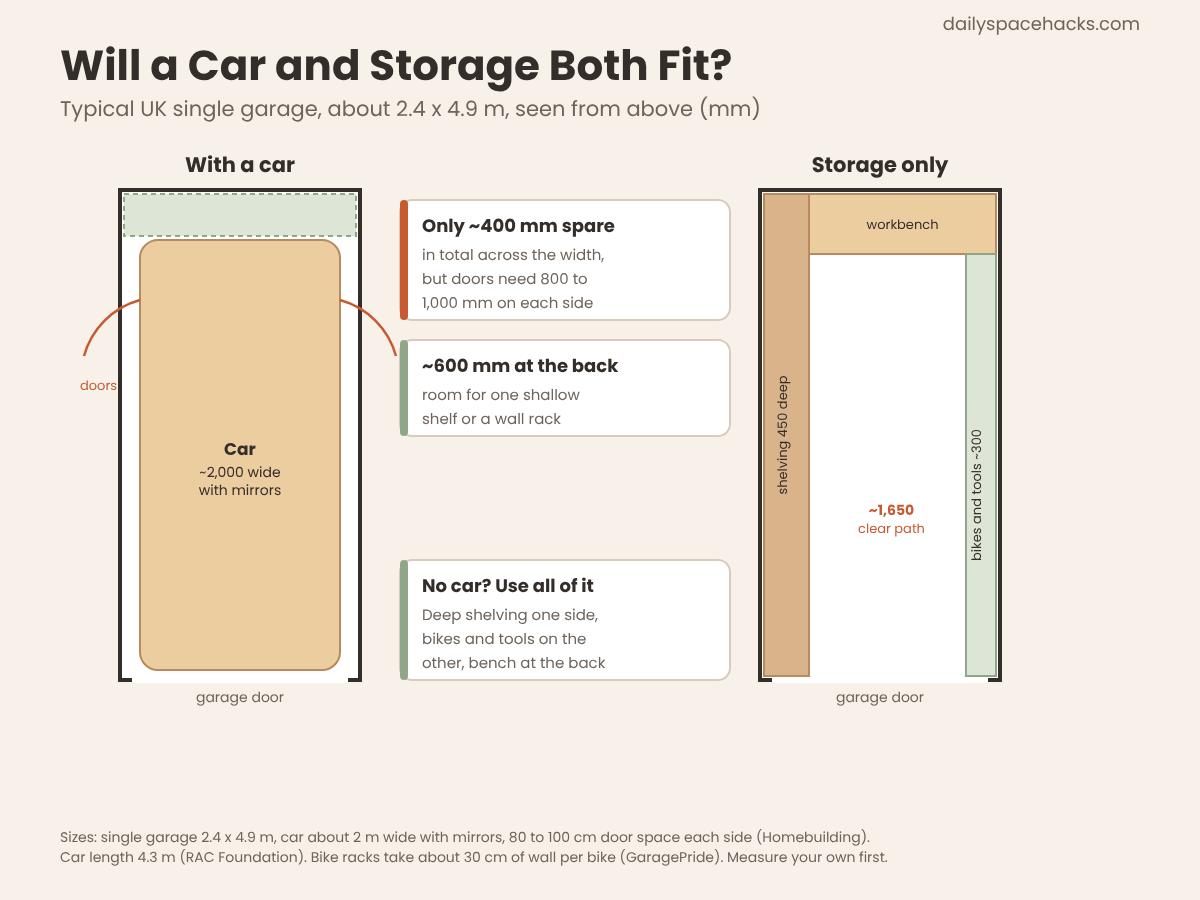
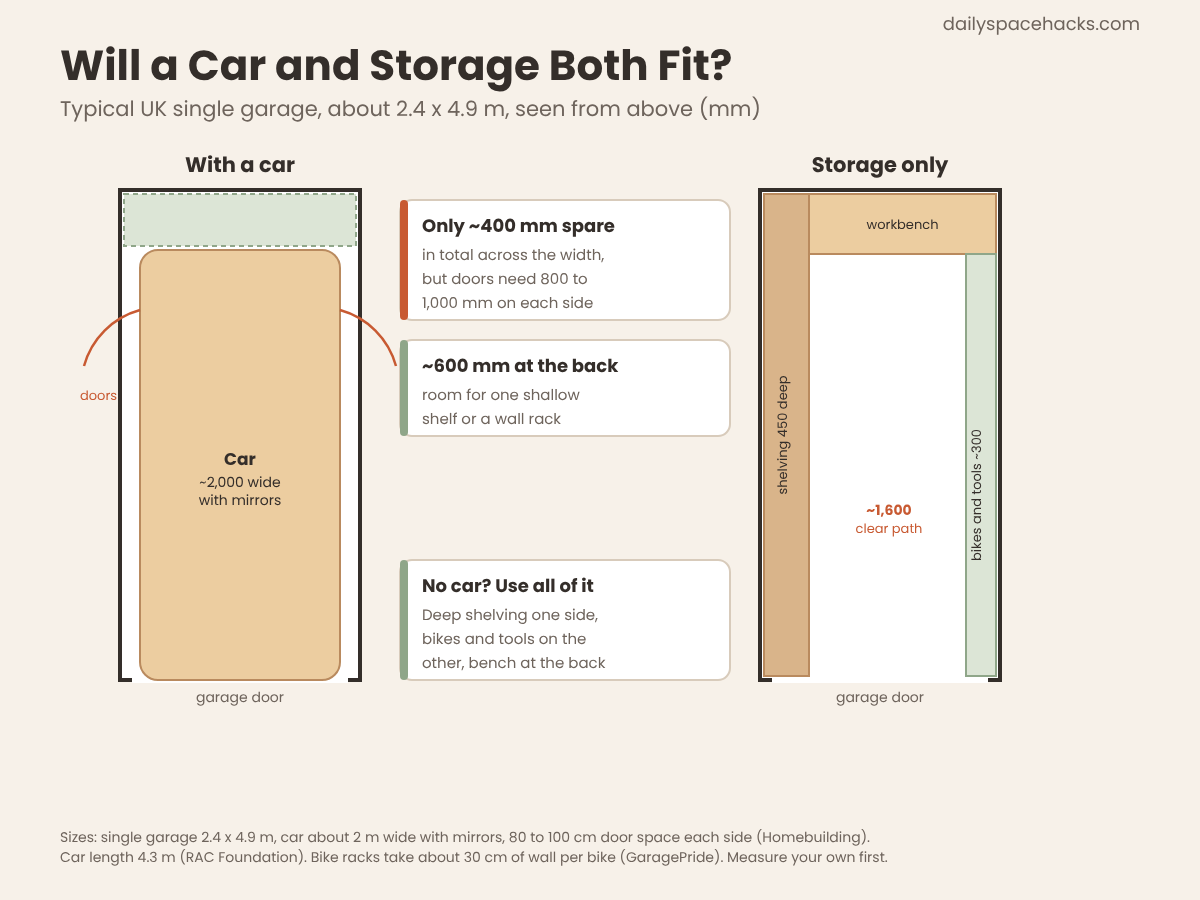
Schedule 3307 garage storage ideas (UK, F2) Nov 12; CSV-66
Claude-Session: https://claude.ai/code/session_015bHY4eNJzsj1XRjde6uJvz

diff --git a/tools/garage-uk/content.html b/tools/garage-uk/content.html
@@ -1,5 +1,5 @@
 <!-- wp:paragraph -->
-<p>The best garage storage ideas get everything off the floor and onto the walls: sturdy shelving with lidded boxes down one side, bikes and garden tools hung on the other, and a pegboard above a bench at the back. Do that and even a cluttered single garage can hold the family's kit with a clear path down the middle.</p>
+<p>The best garage storage ideas get everything off the floor and onto the walls: sturdy shelving with lidded boxes down one side, bikes and garden tools hung on the other, and a pegboard above a bench at the back. Do that and even a cluttered single garage can usually hold the family's kit with a clear path down the middle.</p>
 <!-- /wp:paragraph -->
 
 <!-- wp:paragraph -->
@@ -15,7 +15,7 @@
 <!-- /wp:heading -->
 
 <!-- wp:html -->
-<figure class="dsh-diagram"><svg xmlns="http://www.w3.org/2000/svg" viewBox="0 0 1200 900" font-family="Poppins, sans-serif" role="img" aria-labelledby="gg-t gg-d"><title id="gg-t">How much room a UK single garage really has</title><desc id="gg-d">Top-down plan of a typical UK single garage, about 2.4 m wide by 4.9 m long, with a family car about 2 m wide including mirrors and 4.3 m long parked inside. That leaves only about 400 mm of width in total, far less than the 800 to 1000 mm needed on each side to open the doors, so a car and side shelving rarely fit together in an older single garage. The car also leaves about 600 mm of length, enough for a shallow shelf or wall rack across the back wall. With no car, the whole garage can be used: deep shelving down one side, a workbench at the back and bikes and tools on the other wall, keeping a clear path down the middle.</desc><rect width="1200" height="900" fill="#F7F1E9"/><text x="60" y="80" font-size="42" font-weight="700" fill="#342E2A">Will a Car and Storage Both Fit?</text><text x="60" y="116" font-size="21" fill="#6E645C">Typical UK single garage, about 2.4 x 4.9 m, seen from above (mm)</text><text x="1140" y="30" font-size="18" fill="#6E645C" text-anchor="end">dailyspacehacks.com</text><text x="240.0" y="172" font-size="21" font-weight="700" fill="#342E2A" text-anchor="middle">With a car</text><rect x="120" y="190" width="240.0" height="490.0" fill="#FFFFFF" stroke="#342E2A" stroke-width="4"/><line x1="132" y1="680.0" x2="348.0" y2="680.0" stroke="#FFFFFF" stroke-width="6"/><text x="240.0" y="702.0" font-size="14" fill="#6E645C" text-anchor="middle">garage door</text><rect x="140.0" y="240.0" width="200.0" height="430.0" rx="18" fill="#ECCDA0" stroke="#B98A5E" stroke-width="2"/><text x="240.0" y="455.0" font-size="17" font-weight="700" fill="#342E2A" text-anchor="middle">Car</text><text x="240.0" y="477.0" font-size="14" fill="#342E2A" text-anchor="middle">~2,000 wide</text><text x="240.0" y="495.0" font-size="14" fill="#342E2A" text-anchor="middle">with mirrors</text><rect x="124" y="194" width="232.0" height="42.0" fill="#DCE5D6" stroke="#8FA689" stroke-width="2" stroke-dasharray="5 4"/><text x="80.0" y="390.0" font-size="13" fill="#C85A32">doors</text><path d="M140.0 300.0 A80.0 80.0 0 0 0 84.0 356.0" fill="none" stroke="#C85A32" stroke-width="2.5"/><path d="M340.0 300.0 A80.0 80.0 0 0 1 396.0 356.0" fill="none" stroke="#C85A32" stroke-width="2.5"/><rect x="400.0" y="200" width="330" height="120" rx="12" fill="#FFFFFF" stroke="#D8CBBB" stroke-width="2"/><rect x="400.0" y="200" width="8" height="120" rx="4" fill="#C85A32"/><text x="422.0" y="232" font-size="18" font-weight="700" fill="#342E2A">Only ~400 mm spare</text><text x="422.0" y="260" font-size="15" fill="#6E645C">in total across the width,</text><text x="422.0" y="284" font-size="15" fill="#6E645C">but doors need 800 to</text><text x="422.0" y="308" font-size="15" fill="#6E645C">1,000 mm on each side</text><rect x="400.0" y="340" width="330" height="96" rx="12" fill="#FFFFFF" stroke="#D8CBBB" stroke-width="2"/><rect x="400.0" y="340" width="8" height="96" rx="4" fill="#8FA689"/><text x="422.0" y="372" font-size="18" font-weight="700" fill="#342E2A">~600 mm at the back</text><text x="422.0" y="400" font-size="15" fill="#6E645C">room for one shallow</text><text x="422.0" y="424" font-size="15" fill="#6E645C">shelf or a wall rack</text><text x="880.0" y="172" font-size="21" font-weight="700" fill="#342E2A" text-anchor="middle">Storage only</text><rect x="760" y="190" width="240.0" height="490.0" fill="#FFFFFF" stroke="#342E2A" stroke-width="4"/><line x1="772" y1="680.0" x2="988.0" y2="680.0" stroke="#FFFFFF" stroke-width="6"/><text x="880.0" y="702.0" font-size="14" fill="#6E645C" text-anchor="middle">garage door</text><rect x="764" y="194" width="45.0" height="482.0" fill="#D9B48A" stroke="#B98A5E" stroke-width="2"/><text x="786.5" y="435.0" font-size="13" fill="#342E2A" text-anchor="middle" transform="rotate(-90 786.5 435.0)">shelving 450 deep</text><rect x="809.0" y="194" width="187.0" height="60.0" fill="#ECCDA0" stroke="#B98A5E" stroke-width="2"/><text x="902.5" y="229.0" font-size="13" fill="#342E2A" text-anchor="middle">workbench</text><rect x="966.0" y="254.0" width="30.0" height="422.0" fill="#DCE5D6" stroke="#8FA689" stroke-width="2"/><text x="981.0" y="495.0" font-size="13" fill="#342E2A" text-anchor="middle" transform="rotate(-90 981.0 495.0)">bikes and tools ~300</text><text x="891.5" y="515.0" font-size="14" font-weight="700" fill="#C85A32" text-anchor="middle">~1,650</text><text x="891.5" y="533.0" font-size="13" fill="#C85A32" text-anchor="middle">clear path</text><rect x="400" y="560" width="330" height="120" rx="12" fill="#FFFFFF" stroke="#D8CBBB" stroke-width="2"/><rect x="400" y="560" width="8" height="120" rx="4" fill="#8FA689"/><text x="422" y="592" font-size="18" font-weight="700" fill="#342E2A">No car? Use all of it</text><text x="422" y="620" font-size="15" fill="#6E645C">Deep shelving one side,</text><text x="422" y="644" font-size="15" fill="#6E645C">bikes and tools on the</text><text x="422" y="668" font-size="15" fill="#6E645C">other, bench at the back</text><text x="60" y="842" font-size="14" fill="#6E645C">Sizes: single garage 2.4 x 4.9 m, car about 2 m wide with mirrors, 80 to 100 cm door space each side (Homebuilding).</text><text x="60" y="862" font-size="14" fill="#6E645C">Car length 4.3 m (RAC Foundation). Bike racks take about 30 cm of wall per bike (GaragePride). Measure your own first.</text></svg><figcaption>In a typical 2.4 x 4.9 m single garage, a 2 m wide car leaves room only for a shallow rack at the back. Without a car, the whole garage can be used for storage.</figcaption></figure>
+<figure class="dsh-diagram"><svg xmlns="http://www.w3.org/2000/svg" viewBox="0 0 1200 900" font-family="Poppins, sans-serif" role="img" aria-labelledby="gg-t gg-d"><title id="gg-t">How much room a UK single garage really has</title><desc id="gg-d">Top-down plan of a typical UK single garage, about 2.4 m wide by 4.9 m long, with a family car about 2 m wide including mirrors and 4.3 m long parked inside. That leaves only about 400 mm of width in total, far less than the 800 to 1000 mm needed on each side to open the doors, so a car and side shelving rarely fit together in a typical single garage. The car also leaves about 600 mm of length, enough for a shallow shelf or wall rack across the back wall. With no car, the whole garage can be used: deep shelving down one side, a workbench at the back and bikes and tools on the other wall, keeping a clear path down the middle.</desc><rect width="1200" height="900" fill="#F7F1E9"/><text x="60" y="80" font-size="42" font-weight="700" fill="#342E2A">Will a Car and Storage Both Fit?</text><text x="60" y="116" font-size="21" fill="#6E645C">Typical UK single garage, about 2.4 x 4.9 m, seen from above (mm)</text><text x="1140" y="30" font-size="18" fill="#6E645C" text-anchor="end">dailyspacehacks.com</text><text x="240.0" y="172" font-size="21" font-weight="700" fill="#342E2A" text-anchor="middle">With a car</text><rect x="120" y="190" width="240.0" height="490.0" fill="#FFFFFF" stroke="#342E2A" stroke-width="4"/><line x1="132" y1="680.0" x2="348.0" y2="680.0" stroke="#FFFFFF" stroke-width="6"/><text x="240.0" y="702.0" font-size="14" fill="#6E645C" text-anchor="middle">garage door</text><rect x="140.0" y="250.0" width="200.0" height="430.0" rx="18" fill="#ECCDA0" stroke="#B98A5E" stroke-width="2"/><text x="240.0" y="465.0" font-size="17" font-weight="700" fill="#342E2A" text-anchor="middle">Car</text><text x="240.0" y="487.0" font-size="14" fill="#342E2A" text-anchor="middle">~2,000 wide</text><text x="240.0" y="505.0" font-size="14" fill="#342E2A" text-anchor="middle">with mirrors</text><rect x="124" y="194" width="232.0" height="52.0" fill="#DCE5D6" stroke="#8FA689" stroke-width="2" stroke-dasharray="5 4"/><text x="80.0" y="400.0" font-size="13" fill="#C85A32">doors</text><path d="M140.0 310.0 A80.0 80.0 0 0 0 84.0 366.0" fill="none" stroke="#C85A32" stroke-width="2.5"/><path d="M340.0 310.0 A80.0 80.0 0 0 1 396.0 366.0" fill="none" stroke="#C85A32" stroke-width="2.5"/><rect x="400.0" y="200" width="330" height="120" rx="12" fill="#FFFFFF" stroke="#D8CBBB" stroke-width="2"/><rect x="400.0" y="200" width="8" height="120" rx="4" fill="#C85A32"/><text x="422.0" y="232" font-size="18" font-weight="700" fill="#342E2A">Only ~400 mm spare</text><text x="422.0" y="260" font-size="15" fill="#6E645C">in total across the width,</text><text x="422.0" y="284" font-size="15" fill="#6E645C">but doors need 800 to</text><text x="422.0" y="308" font-size="15" fill="#6E645C">1,000 mm on each side</text><rect x="400.0" y="340" width="330" height="96" rx="12" fill="#FFFFFF" stroke="#D8CBBB" stroke-width="2"/><rect x="400.0" y="340" width="8" height="96" rx="4" fill="#8FA689"/><text x="422.0" y="372" font-size="18" font-weight="700" fill="#342E2A">~600 mm at the back</text><text x="422.0" y="400" font-size="15" fill="#6E645C">room for one shallow</text><text x="422.0" y="424" font-size="15" fill="#6E645C">shelf or a wall rack</text><text x="880.0" y="172" font-size="21" font-weight="700" fill="#342E2A" text-anchor="middle">Storage only</text><rect x="760" y="190" width="240.0" height="490.0" fill="#FFFFFF" stroke="#342E2A" stroke-width="4"/><line x1="772" y1="680.0" x2="988.0" y2="680.0" stroke="#FFFFFF" stroke-width="6"/><text x="880.0" y="702.0" font-size="14" fill="#6E645C" text-anchor="middle">garage door</text><rect x="764" y="194" width="45.0" height="482.0" fill="#D9B48A" stroke="#B98A5E" stroke-width="2"/><text x="786.5" y="435.0" font-size="13" fill="#342E2A" text-anchor="middle" transform="rotate(-90 786.5 435.0)">shelving 450 deep</text><rect x="809.0" y="194" width="187.0" height="60.0" fill="#ECCDA0" stroke="#B98A5E" stroke-width="2"/><text x="902.5" y="229.0" font-size="13" fill="#342E2A" text-anchor="middle">workbench</text><rect x="966.0" y="254.0" width="30.0" height="422.0" fill="#DCE5D6" stroke="#8FA689" stroke-width="2"/><text x="981.0" y="495.0" font-size="13" fill="#342E2A" text-anchor="middle" transform="rotate(-90 981.0 495.0)">bikes and tools ~300</text><text x="889.0" y="515.0" font-size="14" font-weight="700" fill="#C85A32" text-anchor="middle">~1,600</text><text x="889.0" y="533.0" font-size="13" fill="#C85A32" text-anchor="middle">clear path</text><rect x="400" y="560" width="330" height="120" rx="12" fill="#FFFFFF" stroke="#D8CBBB" stroke-width="2"/><rect x="400" y="560" width="8" height="120" rx="4" fill="#8FA689"/><text x="422" y="592" font-size="18" font-weight="700" fill="#342E2A">No car? Use all of it</text><text x="422" y="620" font-size="15" fill="#6E645C">Deep shelving one side,</text><text x="422" y="644" font-size="15" fill="#6E645C">bikes and tools on the</text><text x="422" y="668" font-size="15" fill="#6E645C">other, bench at the back</text><text x="60" y="842" font-size="14" fill="#6E645C">Sizes: single garage 2.4 x 4.9 m, car about 2 m wide with mirrors, 80 to 100 cm door space each side (Homebuilding).</text><text x="60" y="862" font-size="14" fill="#6E645C">Car length 4.3 m (RAC Foundation). Bike racks take about 30 cm of wall per bike (GaragePride). Measure your own first.</text></svg><figcaption>In a typical 2.4 x 4.9 m single garage, a 2 m wide car leaves room only for a shallow rack at the back. Without a car, the whole garage can be used for storage.</figcaption></figure>
 <!-- /wp:html -->
 
 <!-- wp:paragraph -->
@@ -35,7 +35,7 @@
 <!-- /wp:image -->
 
 <!-- wp:paragraph -->
-<p>Freestanding shelving is the backbone of most garage storage. Check the load per shelf, not just the price. At the time of writing, Screwfix lists a five-tier plastic unit at £49.99 rated at <a href="https://www.screwfix.com/p/essentials-5-tier-plastic-garage-shelving-unit-1200mm-x-400mm-x-1850mm/740VM" target="_blank" rel="noopener">60 kg per shelf</a>, and a galvanised steel five-tier unit at £102.49 rated at 450 kg per shelf, which Screwfix says <a href="https://www.screwfix.com/p/rb-boss-fastlok-udl-galv-5-tier-metal-garage-shelving-unit-1200mm-x-450mm-x-1800mm/773tw" target="_blank" rel="noopener">must be securely attached to the wall</a>. IKEA's BROR unit costs £80 and IKEA says it <a href="https://www.ikea.com/gb/en/p/bror-shelving-unit-black-s39272655/" target="_blank" rel="noopener">must be securely anchored</a>. Fix every tall unit to the wall, and keep the heaviest things on the lowest shelves.</p>
+<p>Freestanding shelving does most of the work in a garage. Check the load per shelf, not just the price. At the time of writing, Screwfix lists a five-tier plastic unit at £49.99 rated at <a href="https://www.screwfix.com/p/essentials-5-tier-plastic-garage-shelving-unit-1200mm-x-400mm-x-1850mm/740VM" target="_blank" rel="noopener">60 kg per shelf</a>, and a galvanised steel five-tier unit at £85.99 rated at 450 kg per shelf, which Screwfix says <a href="https://www.screwfix.com/p/rb-boss-fastlok-udl-galv-5-tier-metal-garage-shelving-unit-1200mm-x-450mm-x-1800mm/773tw" target="_blank" rel="noopener">must be securely attached to the wall</a>. IKEA's BROR unit (85 x 55 x 110 cm) was £80 on offer at the time of writing, down from £95, and IKEA says it <a href="https://www.ikea.com/gb/en/p/bror-shelving-unit-black-s39272655/" target="_blank" rel="noopener">must be securely anchored</a>. Fix every tall unit to the wall, and keep the heaviest things on the lowest shelves.</p>
 <!-- /wp:paragraph -->
 
 <!-- wp:heading {"level":3} -->
@@ -55,7 +55,7 @@
 <!-- /wp:image -->
 
 <!-- wp:paragraph -->
-<p>Bikes take up floor space for most of the year. Hanging them by the front wheel on wall hooks means each one needs only about <a href="https://www.garagepride.co.uk/blog/post/garage-bike-rack" target="_blank" rel="noopener">30cm of wall width per bike</a>, according to GaragePride. Heavy e-bikes need a rack rated for their weight. For security, Avon and Somerset Police advise you to <a href="https://www.avonandsomerset.police.uk/crime-prevention-advice/home-protection/garage-or-shed-security/" target="_blank" rel="noopener">use a ground anchor</a> so bikes cannot be easily removed. See our <a href="https://dailyspacehacks.com/storage-ideas-for-small-spaces/">storage ideas for small spaces</a> for more wall-mounted solutions.</p>
+<p>Bikes take up floor space for most of the year. Hanging them by the front wheel on wall hooks means each one needs only about <a href="https://www.garagepride.co.uk/blog/post/garage-bike-rack" target="_blank" rel="noopener">30cm of wall width per bike</a>, according to GaragePride. E-bikes often weigh 20 to 30 kg, so GaragePride suggests a rack rated to at least 40 kg per bike, fixed into solid wall or timber studs. For security, Avon and Somerset Police advise you to <a href="https://www.avonandsomerset.police.uk/crime-prevention-advice/home-protection/garage-or-shed-security/" target="_blank" rel="noopener">use a ground anchor</a> so bikes cannot be easily removed. See our <a href="https://dailyspacehacks.com/storage-ideas-for-small-spaces/">storage ideas for small spaces</a> for more wall-mounted solutions.</p>
 <!-- /wp:paragraph -->
 
 <!-- wp:heading {"level":3} -->
@@ -83,7 +83,7 @@
 <!-- /wp:image -->
 
 <!-- wp:paragraph -->
-<p>A pegboard turns the wall above a bench into tool storage you can see at a glance. Hang each tool on its own hook and draw round it with a marker if you want everyone to put things back in the same place. Small jars or tubs on a narrow shelf hold screws and wall plugs. If you only have room for a narrow bench, a fold-down one saves floor space; our <a href="https://dailyspacehacks.com/diy-floating-shelves/">floating shelves guide</a> explains how to fix shelves securely to masonry.</p>
+<p>A pegboard turns the wall above a bench into tool storage you can see at a glance. Hang each tool on its own hook and draw round it with a marker if you want everyone to put things back in the same place. Small jars or tubs on a narrow shelf hold screws and wall plugs. If you only have room for a narrow bench, a fold-down one saves floor space; our <a href="https://dailyspacehacks.com/diy-floating-shelves/">floating shelves guide</a> covers fixing shelves to a wall.</p>
 <!-- /wp:paragraph -->
 
 <!-- wp:heading {"level":3} -->
@@ -91,7 +91,7 @@
 <!-- /wp:heading -->
 
 <!-- wp:paragraph -->
-<p>If you park inside, the back wall above the bonnet can still take a shallow shelf or wall rack. Ceiling racks are another option, but be careful: GaragePride says overhead racks <a href="https://www.garagepride.co.uk/blog/post/overhead-garage-storage" target="_blank" rel="noopener">must be fixed into the ceiling joists</a>, not plasterboard, and typical racks are rated for about 100 to 250 kg in total. Garage roof structures are not always designed for extra weight, so check with a builder or structural engineer before loading the ceiling.</p>
+<p>If you park inside, the back wall above the bonnet can still take a shallow shelf or wall rack. Ceiling racks are another option, but be careful: GaragePride says overhead racks <a href="https://www.garagepride.co.uk/blog/post/overhead-garage-storage" target="_blank" rel="noopener">must be fixed into the ceiling joists</a>, not plasterboard, and typical racks are rated for about 100 to 250 kg in total. They also need enough headroom (GaragePride suggests 2.1 m) to clear the car. Garage roof structures are not always designed for extra weight, so check with a builder or structural engineer before loading the ceiling.</p>
 <!-- /wp:paragraph -->
 
 <!-- wp:heading -->
@@ -103,7 +103,7 @@
 <!-- /wp:heading -->
 
 <!-- wp:paragraph -->
-<p>Paint does not like cold garages. Homebuilding advises storing it <a href="https://www.homebuilding.co.uk/paint/does-paint-freeze" target="_blank" rel="noopener">somewhere dry, frost-free and temperature-stable</a>, ideally between 5 and 20°C, and Community RePaint suggests avoiding the shed or garage if it drops below freezing. Keep chemicals in their <a href="https://nidirect.gov.uk/articles/keeping-children-safe-poisonous-substances" target="_blank" rel="noopener">original, labelled containers</a> on a high shelf, as nidirect advises, and lock the garage if children could get in.</p>
+<p>Paint does not like cold garages. Paint expert James Knighton, quoted by Homebuilding, advises storing it <a href="https://www.homebuilding.co.uk/paint/does-paint-freeze" target="_blank" rel="noopener">somewhere dry, frost-free and temperature-stable</a>, ideally between 5 and 20°C, and Community RePaint suggests avoiding the shed or garage if it drops below freezing. Keep chemicals in their <a href="https://nidirect.gov.uk/articles/keeping-children-safe-poisonous-substances" target="_blank" rel="noopener">original, labelled containers</a> on a high shelf, as nidirect advises, and lock the garage if children could get in.</p>
 <!-- /wp:paragraph -->
 
 <!-- wp:heading {"level":3} -->
@@ -111,7 +111,7 @@
 <!-- /wp:heading -->
 
 <!-- wp:paragraph -->
-<p>The Health and Safety Executive says you can keep <a href="https://www.hse.gov.uk/fireandexplosion/petrol-storage-club-association.htm" target="_blank" rel="noopener">up to 30 litres of petrol at home</a> without telling the local authority, in plastic containers of up to 10 litres or metal ones of up to 20 litres. Petrol must not be kept in living accommodation, so an integral garage needs care: keep cans away from any heat source and from the door into the house.</p>
+<p>The Health and Safety Executive says you can keep <a href="https://www.hse.gov.uk/fireandexplosion/petrol-storage-club-association.htm" target="_blank" rel="noopener">up to 30 litres of petrol at home</a> without notifying your local Petroleum Enforcement Authority, in plastic containers of up to 10 litres or metal ones of up to 20 litres. If the store is not in the open air, HSE says it needs <a href="https://www.hse.gov.uk/fireandexplosion/petrol-storage-club-association.htm" target="_blank" rel="noopener">a direct exit to the open air and ventilation</a> to that exit. Petrol must not be kept in living accommodation, so an integral garage needs care: keep cans away from any heat source and from the door into the house.</p>
 <!-- /wp:paragraph -->
 
 <!-- wp:heading {"level":3} -->
@@ -119,7 +119,7 @@
 <!-- /wp:heading -->
 
 <!-- wp:paragraph -->
-<p>Many people store e-bikes and e-scooters in the garage. The National Fire Chiefs Council recommends <a href="https://nfcc.org.uk/wp-content/uploads/2023/09/NFCC_Guidance_E-bikes_and_Scooters_.pdf" target="_blank" rel="noopener">heat alarms rather smoke detectors</a> in garages and advises against charging batteries while you are asleep or away. The London Fire Brigade also says to fit an alarm where you charge and to use the correct charger. If your garage is attached to the house, the door between them should be a self-closing fire door; council guidance based on the Building Regulations describes an <a href="https://www.harrow.gov.uk/downloads/file/32472/Guidance_Notes_fire_safety_in_dwelling_houses.pdf" target="_blank" rel="noopener">FD30S (E30Sa) self-closing fire door</a>.</p>
+<p>Many people store e-bikes and e-scooters in the garage. The National Fire Chiefs Council recommends <a href="https://nfcc.org.uk/wp-content/uploads/2023/09/NFCC_Guidance_E-bikes_and_Scooters_.pdf" target="_blank" rel="noopener">heat alarms rather than smoke detectors</a> in garages and advises against charging batteries while you are asleep or away. The London Fire Brigade also says to fit an alarm where you charge and to use the correct charger. If your garage is attached to the house, the door between them should be a self-closing fire door; council guidance based on the Building Regulations describes an <a href="https://www.harrow.gov.uk/downloads/file/32472/Guidance_Notes_fire_safety_in_dwelling_houses.pdf" target="_blank" rel="noopener">FD30S (E30Sa) self-closing fire door</a> with smoke seals. Many older homes do not have one, so check yours and never prop it open.</p>
 <!-- /wp:paragraph -->
 
 <!-- wp:heading -->
@@ -143,7 +143,7 @@
 <!-- /wp:heading -->
 
 <!-- wp:paragraph -->
-<p>Of all these garage storage ideas, getting the floor clear matters most. A fixed shelving unit, a few lidded boxes and two bike hooks will make more difference than any other change, and the shelving prices above show it need not cost much. Then add a pegboard and garden tool rail as you go. If your garage is also your laundry, our <a href="https://dailyspacehacks.com/small-utility-room-ideas/">small utility room ideas</a> show how to fit a washer in safely.</p>
+<p>Of all these garage storage ideas, getting the floor clear matters most. A fixed shelving unit, a few lidded boxes and two bike hooks will make more difference than any other change, and the shelving prices above show it need not cost much. Then add a pegboard and garden tool rail as you go. If your garage is also your laundry, our <a href="https://dailyspacehacks.com/small-utility-room-ideas/">small utility room ideas</a> show how to plan a washer and dryer in a small space.</p>
 <!-- /wp:paragraph -->
 
 <!-- wp:paragraph {"className":"dsh-ai-note","fontSize":"small"} -->

diff --git a/tools/garage-uk/build.py b/tools/garage-uk/build.py
@@ -20,7 +20,7 @@ SRC={
 "harrow":"https://www.harrow.gov.uk/downloads/file/32472/Guidance_Notes_fire_safety_in_dwelling_houses.pdf"}
 def SR(k,t): return ext(SRC[k],t)
 
-p(f"The best garage storage ideas get everything off the floor and onto the walls: sturdy shelving with lidded boxes down one side, bikes and garden tools hung on the other, and a pegboard above a bench at the back. Do that and even a cluttered single garage can hold the family's kit with a clear path down the middle.")
+p(f"The best garage storage ideas get everything off the floor and onto the walls: sturdy shelving with lidded boxes down one side, bikes and garden tools hung on the other, and a pegboard above a bench at the back. Do that and even a cluttered single garage can usually hold the family's kit with a clear path down the middle.")
 p(f"First, be realistic about the car. Homebuilding says most UK single garages are {SR('hb','around 2.4m wide by 4.9m long')}, while a family car such as a Ford Focus is about 2 metres wide including mirrors, and you need 80 to 100 cm on each side to open the doors. That is why so many British garages end up as storerooms. The 10 ideas below are grouped by wall, with prices and the safety rules that matter in a garage.")
 img(1)
 
@@ -31,12 +31,12 @@ p(f"If you do want to park inside, keep storage to the back wall and above the b
 h2("Garage Storage Ideas for the Side Walls")
 h3("1. Choose Shelving Rated for the Load")
 img(2)
-p(f"Freestanding shelving is the backbone of most garage storage. Check the load per shelf, not just the price. At the time of writing, Screwfix lists a five-tier plastic unit at £49.99 rated at {SR('sfp','60 kg per shelf')}, and a galvanised steel five-tier unit at £102.49 rated at 450 kg per shelf, which Screwfix says {SR('sfs','must be securely attached to the wall')}. IKEA's BROR unit costs £80 and IKEA says it {SR('bror','must be securely anchored')}. Fix every tall unit to the wall, and keep the heaviest things on the lowest shelves.")
+p(f"Freestanding shelving does most of the work in a garage. Check the load per shelf, not just the price. At the time of writing, Screwfix lists a five-tier plastic unit at £49.99 rated at {SR('sfp','60 kg per shelf')}, and a galvanised steel five-tier unit at £85.99 rated at 450 kg per shelf, which Screwfix says {SR('sfs','must be securely attached to the wall')}. IKEA's BROR unit (85 x 55 x 110 cm) was £80 on offer at the time of writing, down from £95, and IKEA says it {SR('bror','must be securely anchored')}. Fix every tall unit to the wall, and keep the heaviest things on the lowest shelves.")
 h3("2. Put Everything in Matching Lidded Boxes")
 p(f"Garages get damp. Barratt Homes tells buyers a garage should be {SR('bar','only used for things that would be unaffected by wet conditions')}, so cardboard boxes are a poor choice. Clear plastic boxes with lids keep out dust and damp, stack neatly on shelves and let you see what is inside. Keep the bottom shelf a few centimetres off the floor so air can move underneath. Our guide to {a('christmas-decoration-storage','storing Christmas decorations')} shows how to pack seasonal boxes.")
 h3("3. Hang Bikes Vertically")
 img(3)
-p(f"Bikes take up floor space for most of the year. Hanging them by the front wheel on wall hooks means each one needs only about {SR('gpb','30cm of wall width per bike')}, according to GaragePride. Heavy e-bikes need a rack rated for their weight. For security, Avon and Somerset Police advise you to {SR('police','use a ground anchor')} so bikes cannot be easily removed. See our {a('storage-ideas-for-small-spaces','storage ideas for small spaces')} for more wall-mounted solutions.")
+p(f"Bikes take up floor space for most of the year. Hanging them by the front wheel on wall hooks means each one needs only about {SR('gpb','30cm of wall width per bike')}, according to GaragePride. E-bikes often weigh 20 to 30 kg, so GaragePride suggests a rack rated to at least 40 kg per bike, fixed into solid wall or timber studs. For security, Avon and Somerset Police advise you to {SR('police','use a ground anchor')} so bikes cannot be easily removed. See our {a('storage-ideas-for-small-spaces','storage ideas for small spaces')} for more wall-mounted solutions.")
 h3("4. Give Garden Tools a Wall Rail")
 img(5)
 p("Long-handled tools fall over when they lean in a corner. A wall rail with a clip for each tool keeps spades, rakes and brooms upright and off the floor, with the heads at the top so nobody steps on a rake. A wall bracket for the hose and a shelf for gloves, seeds and twine complete the gardening corner.")
@@ -44,17 +44,17 @@ p("Long-handled tools fall over when they lean in a corner. A wall rail with a c
 h2("Garage Storage Ideas for the Back Wall")
 h3("5. Build a Workbench With a Pegboard Above")
 img(4)
-p(f"A pegboard turns the wall above a bench into tool storage you can see at a glance. Hang each tool on its own hook and draw round it with a marker if you want everyone to put things back in the same place. Small jars or tubs on a narrow shelf hold screws and wall plugs. If you only have room for a narrow bench, a fold-down one saves floor space; our {a('diy-floating-shelves','floating shelves guide')} explains how to fix shelves securely to masonry.")
+p(f"A pegboard turns the wall above a bench into tool storage you can see at a glance. Hang each tool on its own hook and draw round it with a marker if you want everyone to put things back in the same place. Small jars or tubs on a narrow shelf hold screws and wall plugs. If you only have room for a narrow bench, a fold-down one saves floor space; our {a('diy-floating-shelves','floating shelves guide')} covers fixing shelves to a wall.")
 h3("6. Use the Space Above a Parked Car")
-p(f"If you park inside, the back wall above the bonnet can still take a shallow shelf or wall rack. Ceiling racks are another option, but be careful: GaragePride says overhead racks {SR('gpo','must be fixed into the ceiling joists')}, not plasterboard, and typical racks are rated for about 100 to 250 kg in total. Garage roof structures are not always designed for extra weight, so check with a builder or structural engineer before loading the ceiling.")
+p(f"If you park inside, the back wall above the bonnet can still take a shallow shelf or wall rack. Ceiling racks are another option, but be careful: GaragePride says overhead racks {SR('gpo','must be fixed into the ceiling joists')}, not plasterboard, and typical racks are rated for about 100 to 250 kg in total. They also need enough headroom (GaragePride suggests 2.1 m) to clear the car. Garage roof structures are not always designed for extra weight, so check with a builder or structural engineer before loading the ceiling.")
 
 h2("Keep It Safe")
 h3("7. Store Paint and Chemicals Properly")
-p(f"Paint does not like cold garages. Homebuilding advises storing it {SR('paint','somewhere dry, frost-free and temperature-stable')}, ideally between 5 and 20°C, and Community RePaint suggests avoiding the shed or garage if it drops below freezing. Keep chemicals in their {SR('nid','original, labelled containers')} on a high shelf, as nidirect advises, and lock the garage if children could get in.")
+p(f"Paint does not like cold garages. Paint expert James Knighton, quoted by Homebuilding, advises storing it {SR('paint','somewhere dry, frost-free and temperature-stable')}, ideally between 5 and 20°C, and Community RePaint suggests avoiding the shed or garage if it drops below freezing. Keep chemicals in their {SR('nid','original, labelled containers')} on a high shelf, as nidirect advises, and lock the garage if children could get in.")
 h3("8. Follow the Petrol Rules")
-p(f"The Health and Safety Executive says you can keep {SR('hse','up to 30 litres of petrol at home')} without telling the local authority, in plastic containers of up to 10 litres or metal ones of up to 20 litres. Petrol must not be kept in living accommodation, so an integral garage needs care: keep cans away from any heat source and from the door into the house.")
+p(f"The Health and Safety Executive says you can keep {SR('hse','up to 30 litres of petrol at home')} without notifying your local Petroleum Enforcement Authority, in plastic containers of up to 10 litres or metal ones of up to 20 litres. If the store is not in the open air, HSE says it needs {SR('hse','a direct exit to the open air and ventilation')} to that exit. Petrol must not be kept in living accommodation, so an integral garage needs care: keep cans away from any heat source and from the door into the house.")
 h3("9. Charge E-Bikes and Scooters Safely")
-p(f"Many people store e-bikes and e-scooters in the garage. The National Fire Chiefs Council recommends {SR('nfcc','heat alarms rather smoke detectors')} in garages and advises against charging batteries while you are asleep or away. The London Fire Brigade also says to fit an alarm where you charge and to use the correct charger. If your garage is attached to the house, the door between them should be a self-closing fire door; council guidance based on the Building Regulations describes an {SR('harrow','FD30S (E30Sa) self-closing fire door')}.")
+p(f"Many people store e-bikes and e-scooters in the garage. The National Fire Chiefs Council recommends {SR('nfcc','heat alarms rather than smoke detectors')} in garages and advises against charging batteries while you are asleep or away. The London Fire Brigade also says to fit an alarm where you charge and to use the correct charger. If your garage is attached to the house, the door between them should be a self-closing fire door; council guidance based on the Building Regulations describes an {SR('harrow','FD30S (E30Sa) self-closing fire door')} with smoke seals. Many older homes do not have one, so check yours and never prop it open.")
 
 h2("Keep It Tidy")
 h3("10. Do a Twice-Yearly Clear-Out")
@@ -62,7 +62,7 @@ img(6)
 p(f"This before and after illustration shows what clearing the floor can do for a single garage. The hardest part is deciding what to keep, so empty one wall at a time, sort into keep, sell, donate and tip, and only buy storage once you know what is left. Our {a('how-to-declutter-your-home','decluttering guide')} walks through the process, and a quick tidy every spring and autumn stops the pile coming back.")
 
 h2("If You Only Do One Thing")
-p(f"Of all these garage storage ideas, getting the floor clear matters most. A fixed shelving unit, a few lidded boxes and two bike hooks will make more difference than any other change, and the shelving prices above show it need not cost much. Then add a pegboard and garden tool rail as you go. If your garage is also your laundry, our {a('small-utility-room-ideas','small utility room ideas')} show how to fit a washer in safely.")
+p(f"Of all these garage storage ideas, getting the floor clear matters most. A fixed shelving unit, a few lidded boxes and two bike hooks will make more difference than any other change, and the shelving prices above show it need not cost much. Then add a pegboard and garden tool rail as you go. If your garage is also your laundry, our {a('small-utility-room-ideas','small utility room ideas')} show how to plan a washer and dryer in a small space.")
 ai_note()
 html='\n\n'.join(out)
 html=re.sub(r'(\d+\.\d{2})\d+',r'\1',html)

diff --git a/tools/garage-uk/svg.py b/tools/garage-uk/svg.py
@@ -6,7 +6,7 @@ CAR_W,CAR_L=2000,4300
 door=800
 left=GW-CAR_W
 desc=(f"Top-down plan of a typical UK single garage, about 2.4 m wide by 4.9 m long, with a family car about 2 m wide including mirrors and 4.3 m long parked inside. "
-f"That leaves only about {left} mm of width in total, far less than the 800 to 1000 mm needed on each side to open the doors, so a car and side shelving rarely fit together in an older single garage. "
+f"That leaves only about {left} mm of width in total, far less than the 800 to 1000 mm needed on each side to open the doors, so a car and side shelving rarely fit together in a typical single garage. "
 f"The car also leaves about {GL-CAR_L} mm of length, enough for a shallow shelf or wall rack across the back wall. "
 "With no car, the whole garage can be used: deep shelving down one side, a workbench at the back and bikes and tools on the other wall, keeping a clear path down the middle.")
 a(f'<svg xmlns="http://www.w3.org/2000/svg" viewBox="0 0 1200 900" font-family="Poppins, sans-serif" role="img" aria-labelledby="gg-t gg-d"><title id="gg-t">How much room a UK single garage really has</title><desc id="gg-d">{desc}</desc>')
@@ -22,12 +22,12 @@ def garage(ox,oy,title):
 # left: car inside
 ox,oy=120,190
 garage(ox,oy,'With a car')
-cx=ox+(GW-CAR_W)/2*k; cy=oy+(GL-CAR_L)*k-10
+cx=ox+(GW-CAR_W)/2*k; cy=oy+(GL-CAR_L)*k
 a(f'<rect x="{cx}" y="{cy}" width="{CAR_W*k}" height="{CAR_L*k}" rx="18" fill="{SA}" stroke="{W2}" stroke-width="2"/>')
 a(f'<text x="{cx+CAR_W*k/2}" y="{cy+CAR_L*k/2}" font-size="17" font-weight="700" fill="{T}" text-anchor="middle">Car</text>')
 a(f'<text x="{cx+CAR_W*k/2}" y="{cy+CAR_L*k/2+22}" font-size="14" fill="{T}" text-anchor="middle">~2,000 wide</text>')
 a(f'<text x="{cx+CAR_W*k/2}" y="{cy+CAR_L*k/2+40}" font-size="14" fill="{T}" text-anchor="middle">with mirrors</text>')
-a(f'<rect x="{ox+4}" y="{oy+4}" width="{GW*k-8}" height="{(GL-CAR_L)*k-18}" fill="{SGL}" stroke="{SG}" stroke-width="2" stroke-dasharray="5 4"/>')
+a(f'<rect x="{ox+4}" y="{oy+4}" width="{GW*k-8}" height="{(GL-CAR_L)*k-8}" fill="{SGL}" stroke="{SG}" stroke-width="2" stroke-dasharray="5 4"/>')
 # door swing arcs
 r=door*k
 a(f'<text x="{cx-60}" y="{cy+150}" font-size="13" fill="{A}">doors</text>')
@@ -53,7 +53,7 @@ a(f'<text x="{ox2+4+450*k+(GW*k-8-450*k)/2}" y="{oy2+4+600*k/2+5}" font-size="13
 # right wall bikes/tools 300
 a(f'<rect x="{ox2+GW*k-4-300*k}" y="{oy2+4+600*k}" width="{300*k}" height="{GL*k-8-600*k}" fill="{SGL}" stroke="{SG}" stroke-width="2"/>')
 a(f'<text x="{ox2+GW*k-4-300*k/2}" y="{oy2+GL*k/2+60}" font-size="13" fill="{T}" text-anchor="middle" transform="rotate(-90 {ox2+GW*k-4-300*k/2} {oy2+GL*k/2+60})">bikes and tools ~300</text>')
-mid=GW-450-300
+mid=1600
 a(f'<text x="{ox2+4+450*k+mid*k/2}" y="{oy2+GL*k/2+80}" font-size="14" font-weight="700" fill="{A}" text-anchor="middle">~{mid:,}</text>')
 a(f'<text x="{ox2+4+450*k+mid*k/2}" y="{oy2+GL*k/2+98}" font-size="13" fill="{A}" text-anchor="middle">clear path</text>')
 note(ox2-330-30,560,'No car? Use all of it',['Deep shelving one side,','bikes and tools on the','other, bench at the back'],SG)
